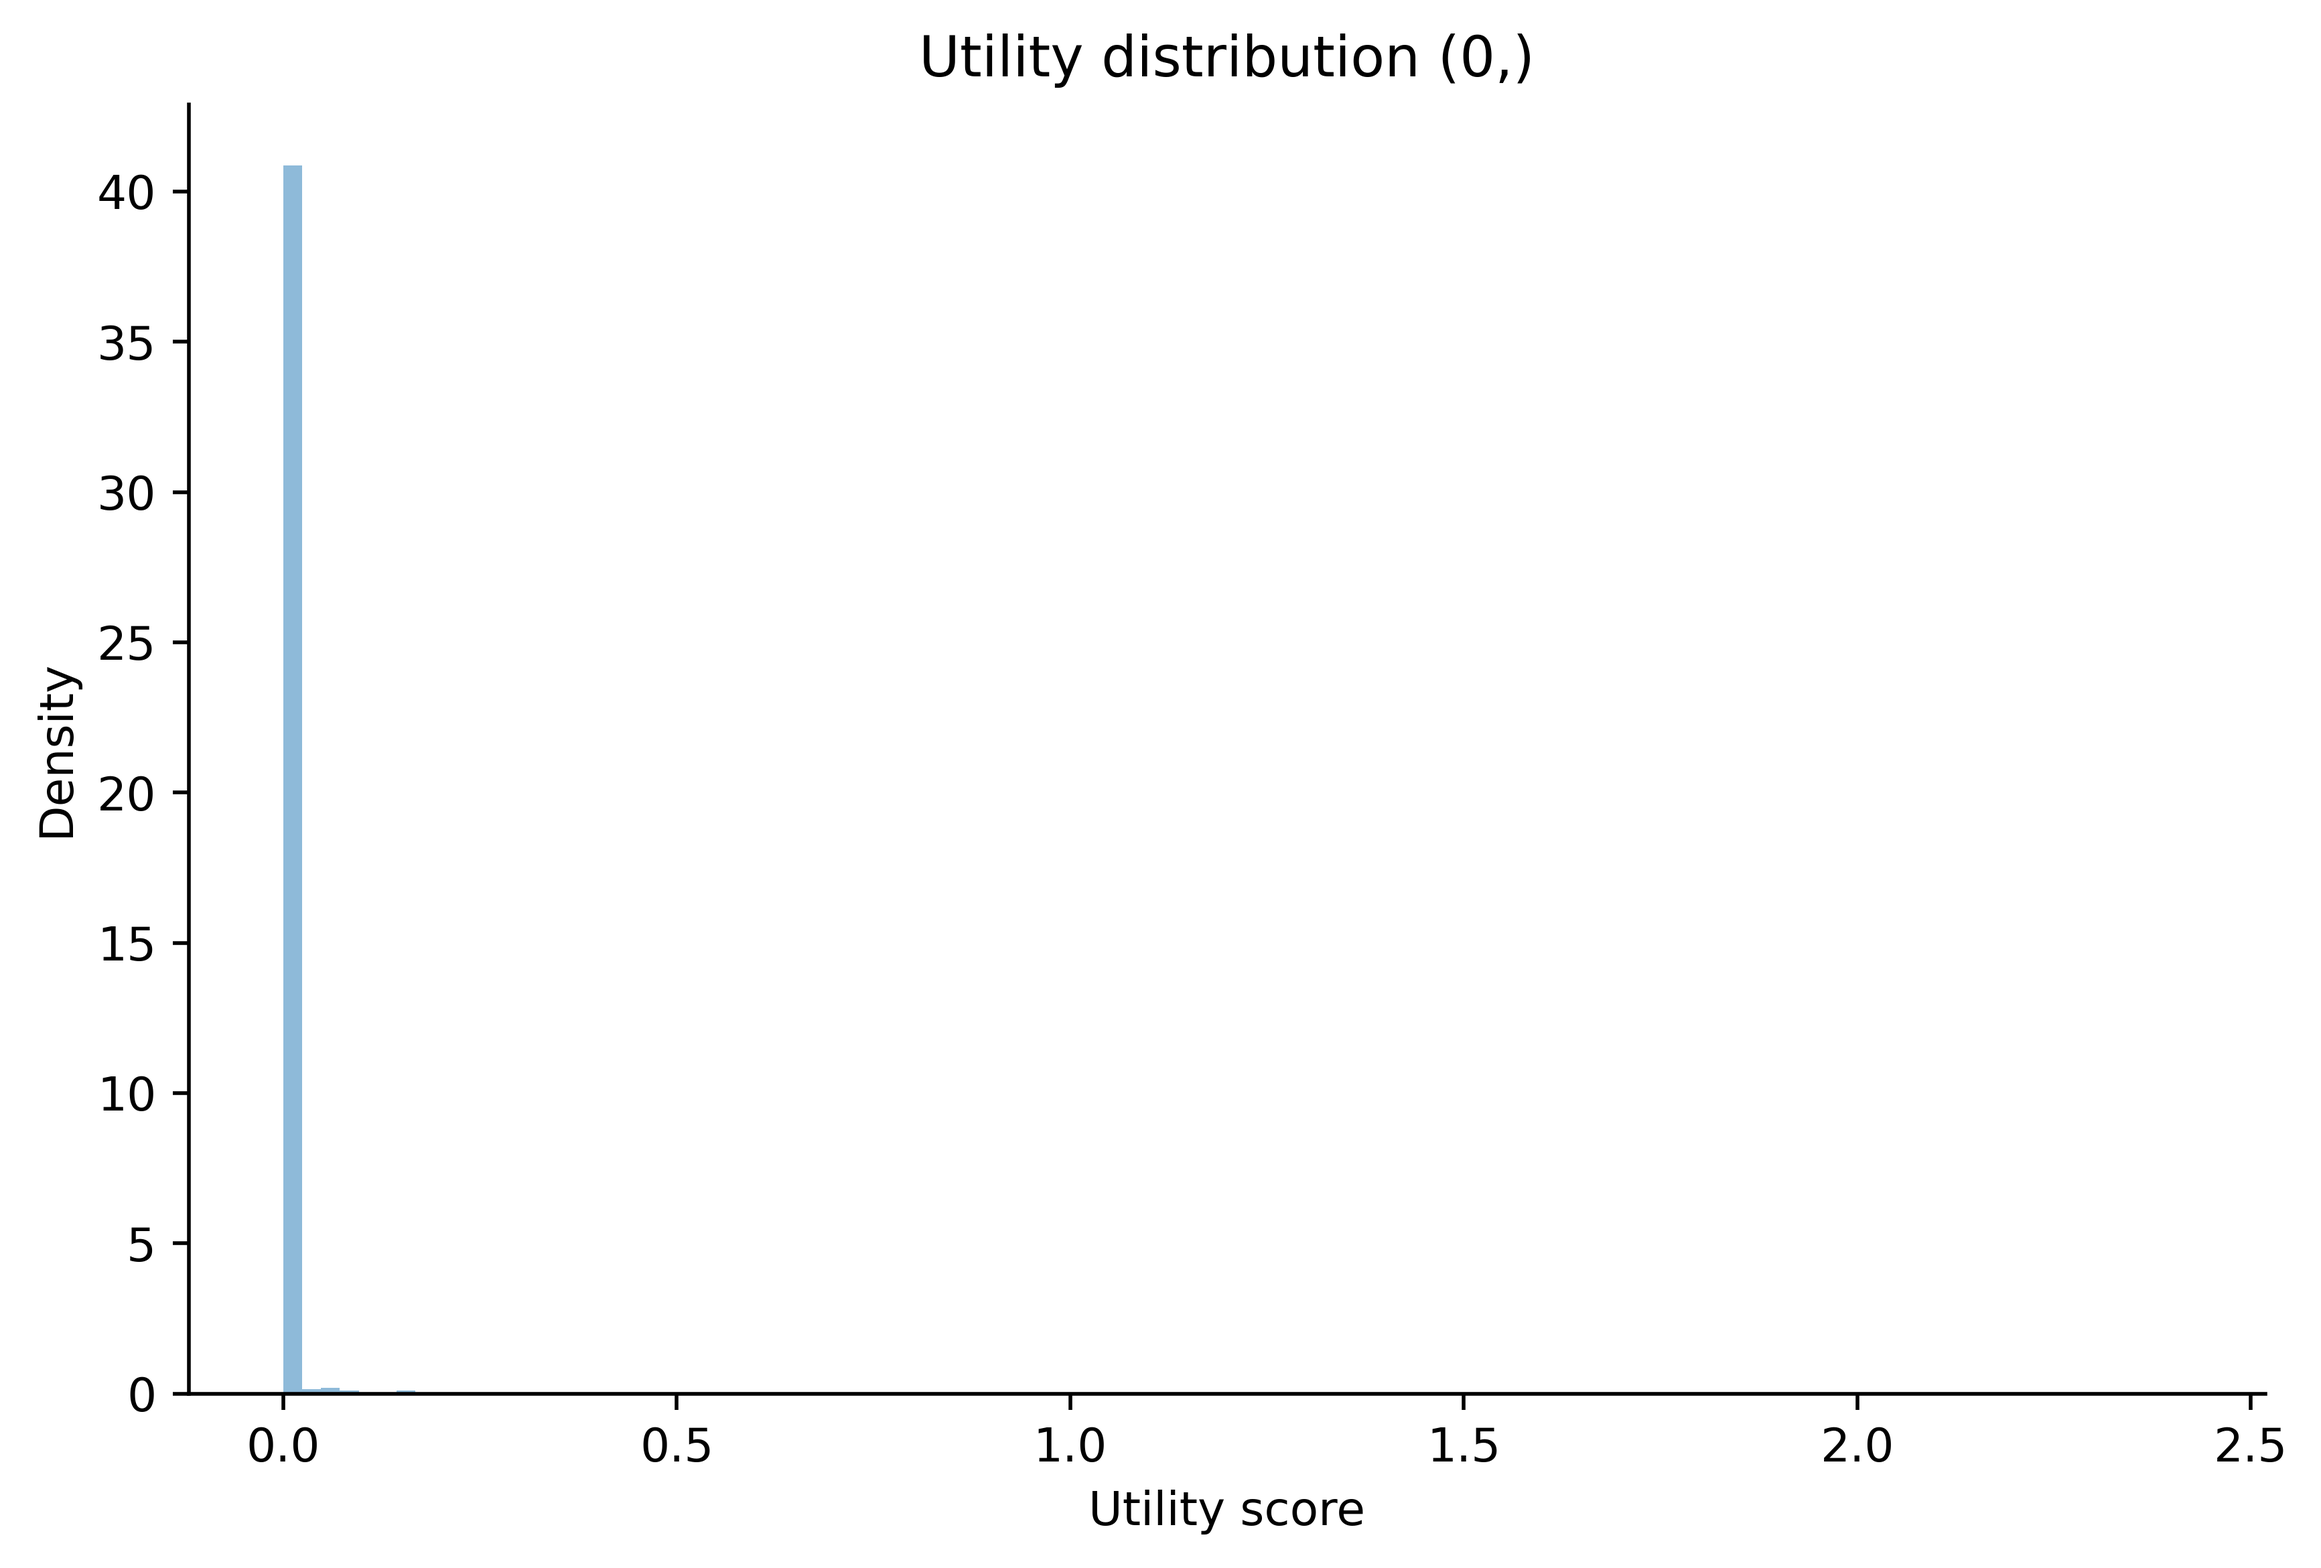
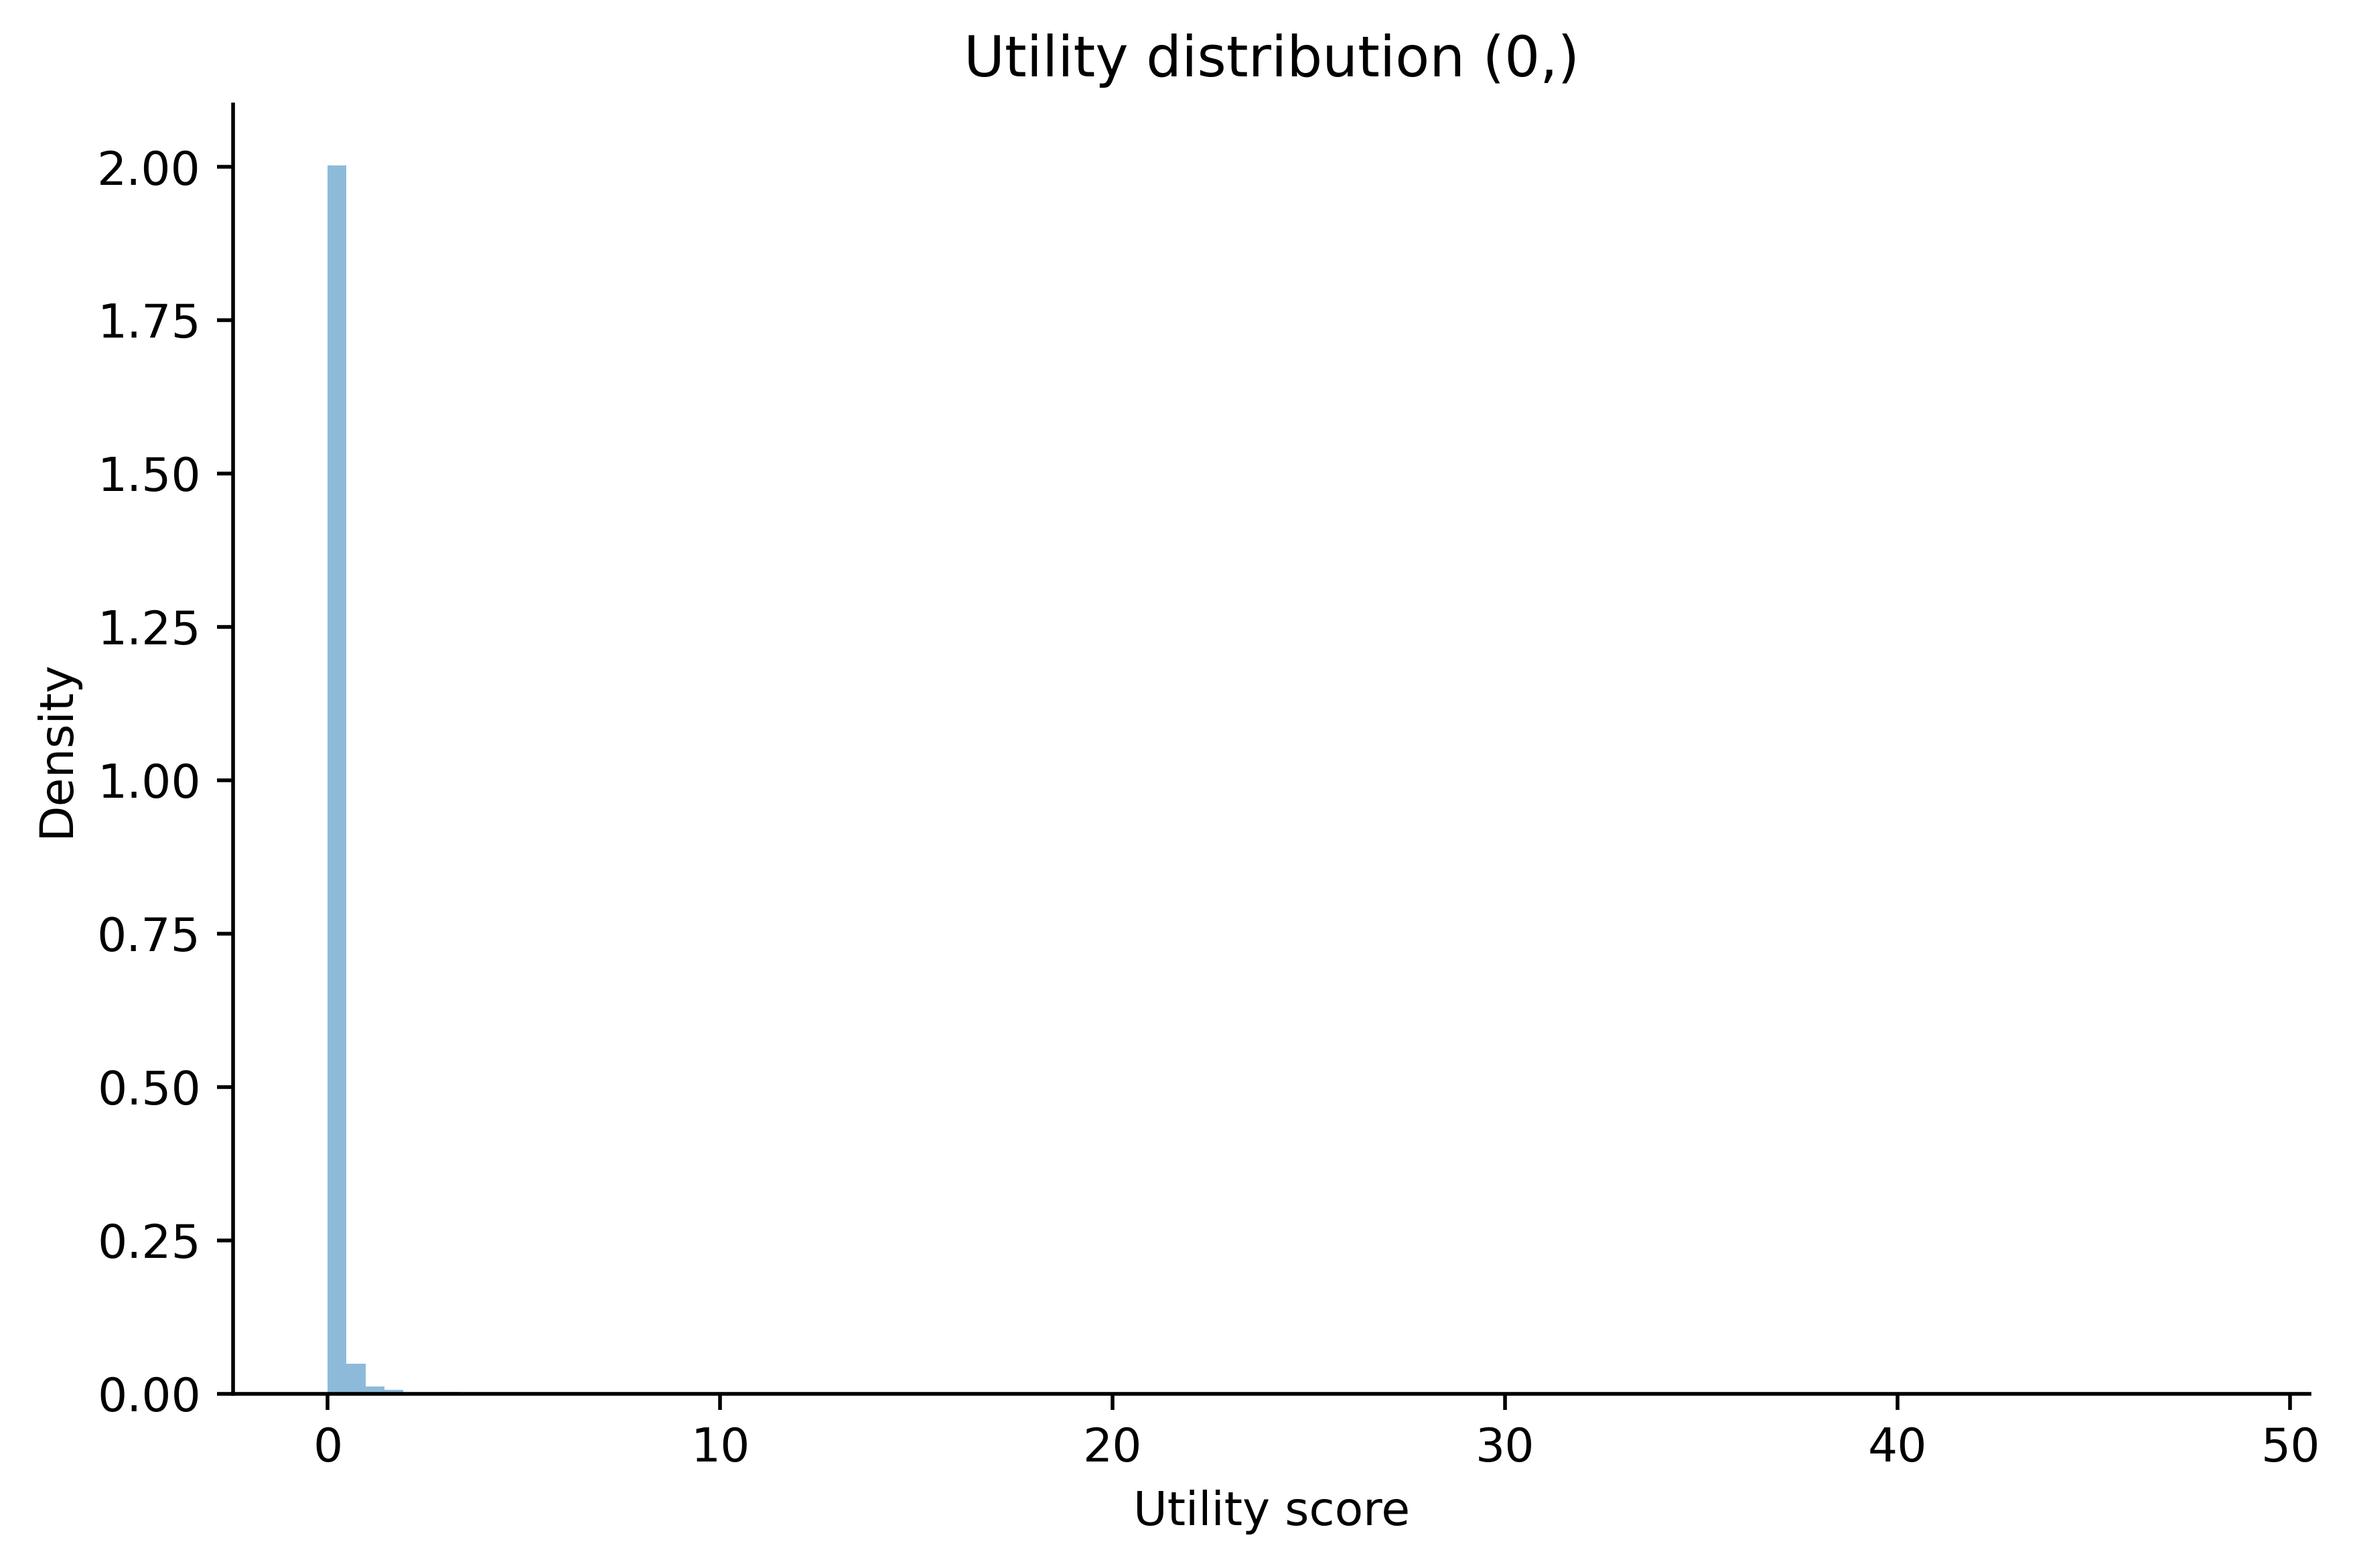
kl div v2

diff --git a/lop/algos/bp_kl_div.py b/lop/algos/bp_kl_div.py
@@ -1,3 +1,4 @@
+import numpy as np
 import torch
 import torch.nn.functional as F
 from torch import optim
@@ -24,6 +25,7 @@ class BackpropKL(object):
         self.util = None
         self.kl_div_scale = kl_div_scale
         self.power_law_alpha = power_law_alpha
+        self.bins = 100
 
         # define the optimizer
         if opt == 'sgd':
@@ -42,6 +44,8 @@ class BackpropKL(object):
         # Placeholder
         self.previous_features = None
 
+        self.target_power_law = self.compute_target_power_law()
+
         # define the generate-and-test object for the given network
         self.gnt = None
         self.gnt = GnT(
@@ -58,47 +62,53 @@ class BackpropKL(object):
             accumulate=accumulate,
         )
 
-    def copy_util_score(self, array_of_torch_tensors):
-        return torch.stack(array_of_torch_tensors).detach()
+    def compute_target_power_law(self):
+        # histogram bin centers
+        points = torch.linspace(
+           0.0,
+           1.0,
+            self.bins + 1,
+            device=self.device
+        )
 
-    def utility_powerlaw_kl(self, utilities, bins = 100,  eps=1e-8):
+        centers = (points[:-1] + points[1:]) / 2
+
+        # target power law P
+        # TODO: look into computing the integral over the bin
+        p = centers ** (self.power_law_alpha)
+        p = p / p.sum()
+
+        return p
+
+    def copy_util_score(self, array_of_torch_tensors):
+        return torch.stack(array_of_torch_tensors)
+
+    def utility_powerlaw_kl(self, utilities,  eps=1e-8):
 
         # flatten utilities
         u = utilities.flatten()
 
-        # power law only defined for positive values
-        u = torch.abs(u) + eps
+        # avoid division by 0
+        u += eps
 
-        # empirical distribution P
+        # scale-free
+        u = u / u.sum()
+
+        # empirical distribution Q
         hist = torch.histc(
             u,
-            bins=bins,
-            min=u.min(),
-            max=u.max()
+            bins=self.bins,
+            min=0.0,
+            max=1.0
         )
 
-        p = hist / hist.sum()
+        q = hist / hist.sum()
+        p = self.target_power_law
 
-        # histogram bin centers
-        edges = torch.linspace(
-            u.min(),
-            u.max(),
-            bins + 1,
-            device=u.device
-        )
+        # Forward `KL(P || Q)
+        kl = torch.sum(p * (torch.log(p+eps) - torch.log(q+eps)))
 
-        centers = (edges[:-1] + edges[1:]) / 2
-
-        # target power law Q
-        q = centers ** (self.power_law_alpha)
-        q = q / q.sum()
-
-        # TODO: look into pytorch KL function
-        # KL(P || Q)
-        kl = torch.sum(
-            p * torch.log((p + eps) / (q + eps))
-        )
-
+        #print("kl: ", kl)
         return kl
 
     def learn(self, x, target):
@@ -110,8 +120,8 @@ class BackpropKL(object):
         """
 
         output, features = self.net.predict(x=x)
-        task_loss = self.loss_func(output, target)
-        loss = task_loss
+        loss = self.loss_func(output, target)
+        #print("loss: ", loss)
         self.previous_features = features
 
 
@@ -123,10 +133,7 @@ class BackpropKL(object):
 
             # Add KL div loss
             if self.kl_div_scale > 0:
-                util_kl = self.utility_powerlaw_kl(
-                    self.util
-                )
-
+                util_kl = self.utility_powerlaw_kl(self.util)
                 loss = loss + self.kl_div_scale * util_kl
 
         self.opt.zero_grad()

diff --git a/lop/permuted_mnist/online_expr.py b/lop/permuted_mnist/online_expr.py
@@ -29,7 +29,7 @@ def online_expr(params: {}):
     dev = 'cpu'
     to_log = False
     num_features = 2000
-    change_after = 10 * 6000
+    change_after = 5 * 6000
     to_perturb = False
     perturb_scale = 0.1
     num_hidden_layers = 1
@@ -38,7 +38,7 @@ def online_expr(params: {}):
     decay_rate = 0.99
     maturity_threshold = 100
     kl_div_scale = 0
-    power_law_alpha = -1.5
+    power_law_alpha = -3
     util_type = 'adaptable_contribution'
 
     if 'to_log' in params.keys():
@@ -75,12 +75,13 @@ def online_expr(params: {}):
     if 'power_law_alpha' in params.keys():
         power_law_alpha = params['power_law_alpha']
 
-    classes_per_task = 10
+    classes_per_task = 5
     images_per_class = 6000
     input_size = 784
     num_hidden_layers = num_hidden_layers
     net = DeepFFNN(input_size=input_size, num_features=num_features, num_outputs=classes_per_task,
                    num_hidden_layers=num_hidden_layers)
+
 
     if agent_type == 'linear':
         net = MyLinear(
@@ -139,10 +140,13 @@ def online_expr(params: {}):
     accuracies = torch.zeros(total_iters, dtype=torch.float)
     #util = [torch.zeros(net.layers[i * 2].out_features).to(dev) for i in range(num_hidden_layers)]
 
-    utils = torch.zeros(
-        (total_iters, num_hidden_layers, num_features),
-        dtype=torch.float
-    )
+    # utils = torch.zeros(
+    #     (total_iters, num_hidden_layers, num_features),
+    #     dtype=torch.float
+    # )
+
+    utils = None
+
     weight_mag_sum = torch.zeros((total_iters, num_hidden_layers+1), dtype=torch.float)
 
     rank_measure_period = 60000
@@ -158,6 +162,10 @@ def online_expr(params: {}):
         if use_gpu == 1:
             x = x.to(dev)
             y = y.to(dev)
+            x = x[:30000]
+            y = y[:30000]
+
+        print("number of images: ", len(x))
 
     for task_idx in tqdm(range(num_tasks)):
         new_iter_start = iter
@@ -194,7 +202,7 @@ def online_expr(params: {}):
 
             # log uitl scores
             if agent_type in ['bp_kl_div']:
-                utils[iter] = learner.util.cpu()
+                utils = learner.util.cpu()
             iter += 1
 
         print('recent accuracy', accuracies[new_iter_start:iter - 1].mean())
@@ -207,7 +215,7 @@ def online_expr(params: {}):
                 'approximate_ranks': approximate_ranks.cpu(),
                 'abs_approximate_ranks': approximate_ranks_abs.cpu(),
                 'dead_neurons': dead_neurons.cpu(),
-                'utils': utils.cpu(),
+                'utils': utils,
             }
             save_data(file=params['data_file'], data=data)
 
@@ -219,7 +227,7 @@ def online_expr(params: {}):
         'approximate_ranks': approximate_ranks.cpu(),
         'abs_approximate_ranks': approximate_ranks_abs.cpu(),
         'dead_neurons': dead_neurons.cpu(),
-        'utils': utils.cpu(),
+        'utils': utils,
     }
     save_data(file=params['data_file'], data=data)
 

diff --git a/lop/permuted_mnist/plots/bp_metrics.py b/lop/permuted_mnist/plots/bp_metrics.py
@@ -110,7 +110,7 @@ def main(arguments):
         return
 
     performances = []
-    m = {'weight': 60*1000, 'accuracy': 60*1000, 'dead_neurons': 1, 'effective_rank': 1}[metric]
+    m = {'weight': 30*1000, 'accuracy': 30*1000, 'dead_neurons': 1, 'effective_rank': 1}[metric]
     num_runs = params['num_runs']
 
     indices = range(len(param_settings))
@@ -118,16 +118,17 @@ def main(arguments):
         performances.append(add_cfg_performance(cfg=cfg_file, setting_idx=i, m=m, num_runs=num_runs, metric=metric))
 
     yticks = {'weight': [0, 0.02, 0.04, 0.06, 0.08, 0.10], 'accuracy': [10, 20, 30, 40, 50, 60, 70, 80, 90, 100],
-              'dead_neurons': [0, 10, 20, 30], 'effective_rank': [0, 10, 20, 30, 40, 50]}[metric]
+             'dead_neurons': [0, 10, 20, 30], 'effective_rank': [0, 10, 20, 30, 40, 50]}[metric]
     # yticks = {'weight': [0, 0.02, 0.04, 0.06, 0.08, 0.10], 'accuracy': [88, 90, 92, 94, 96],
-    #           'dead_neurons': [0, 10, 20, 30], 'effective_rank': [0, 10, 20, 30, 40, 50]}[metric]
+    #            'dead_neurons': [0, 10, 20, 30], 'effective_rank': [0, 10, 20, 30, 40, 50]}[metric]
     generate_online_performance_plot(
         performances=performances,
         colors=['C1', 'C3', 'C5', 'C2', 'C4', 'C6'],
         yticks=yticks,
-        xticks=[0, 200*m, 400*m, 600*m, 800*m],
-        xticks_labels=['0', '200', '400', '600', '800'],
-        # xticks_labels=['0', '100', '200', '300','400'],
+        xticks=[0, 50 * m, 100 * m, 150 * m, 200 * m],
+        # xticks=[0, 200*m, 400*m, 600*m, 800*m],
+        # xticks_labels=['0', '200', '400', '600', '800'],
+        xticks_labels=['0', '100', '200', '300','400'],
         m=m,
         fontsize=18,
         labels=param_settings,

diff --git a/lop/permuted_mnist/load_mnist.py b/lop/permuted_mnist/load_mnist.py
@@ -27,8 +27,24 @@ def mnist():
         images = images.flatten(start_dim=1)
         labels = labels
 
+
+
     x = images
     y = labels
+
+
+
+
+    mask = y < 5
+    x = x[mask]
+    y = y[mask]
+
+
+    for i in range(10):
+        print(len(y[y == i]))
+
+
+
 
     for i, (images_test, labels_test) in enumerate(test_loader):
         images_test = images_test.flatten(start_dim=1)
@@ -36,6 +52,11 @@ def mnist():
 
     x_test = images_test
     y_test = labels_test
+
+    mask = y_test < 5
+    x_test = x_test[mask]
+    y_test = y_test[mask]
+
 
     with open('data/mnist_', 'wb+') as f:
         pickle.dump([x, y, x_test, y_test], f)

diff --git a/lop/utils/plot_online_performance.py b/lop/utils/plot_online_performance.py
@@ -25,12 +25,19 @@ def generate_utility_histogram(
         if labels is not None:
             label = labels[idx]
 
+        # plt.hist(
+        #     values,
+        #     bins=bins,
+        #     density=True,
+        #     alpha=0.5,
+        #     label=label
+        # )
+
         plt.hist(
             values,
             bins=bins,
             density=True,
-            alpha=0.5,
-            label=label
+            alpha=0.5
         )
 
 
